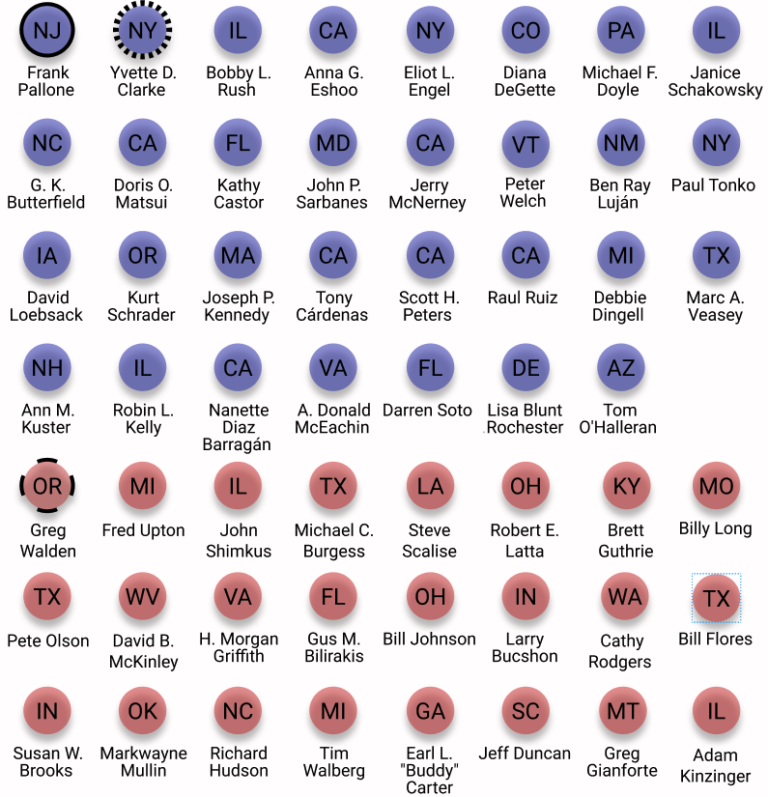
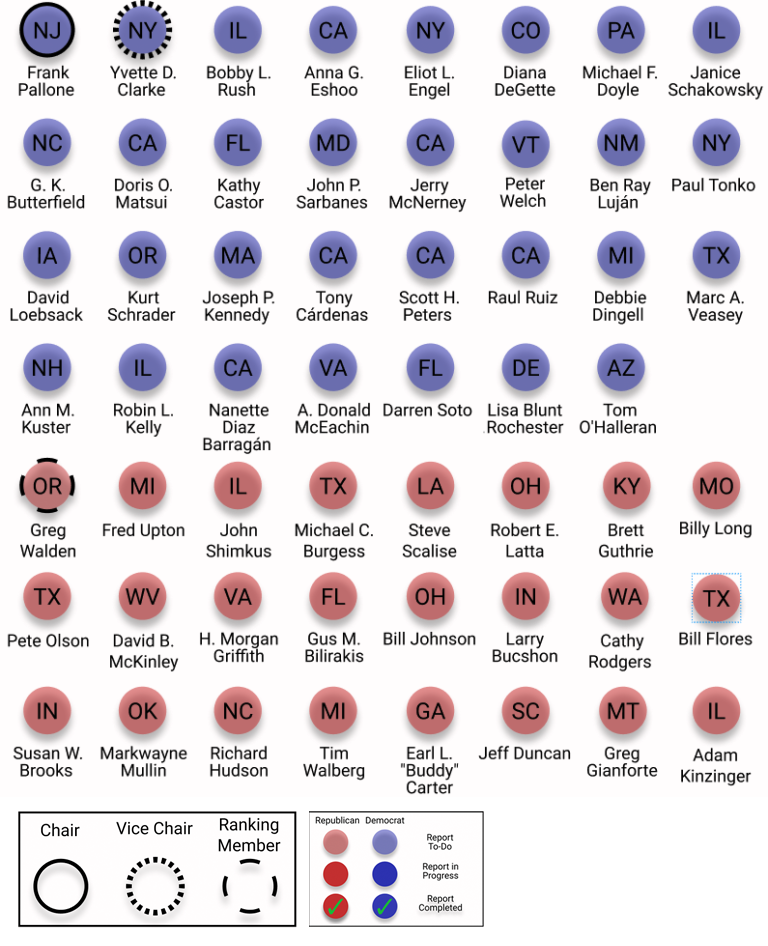
Replace energy committee image with a combined one

diff --git a/content/reports/reports-content.md b/content/reports/reports-content.md
@@ -21,14 +21,10 @@ At these events, participants will analyze, contextualize, and relate their pers
 
 Participants can sign up for one of the assigned report cards below, or they can make one for their congressional district. Our events are 2 hours long, on Thursdays from 2:30-4:30 EST, and no coding skill or background in environmental law required!
 
-## Senate Environment & Public Works Committee:
+## Senate Environment & Public Works Committee
 
 ![](./senate-env-pw.png)
 
-## House Energy & Commerce Committee:
+## House Energy & Commerce Committee
 
 ![](house-energy-commerce.png)
-
-Key:
-![](./key-outlines.png)
-![](./key-progress.png)
